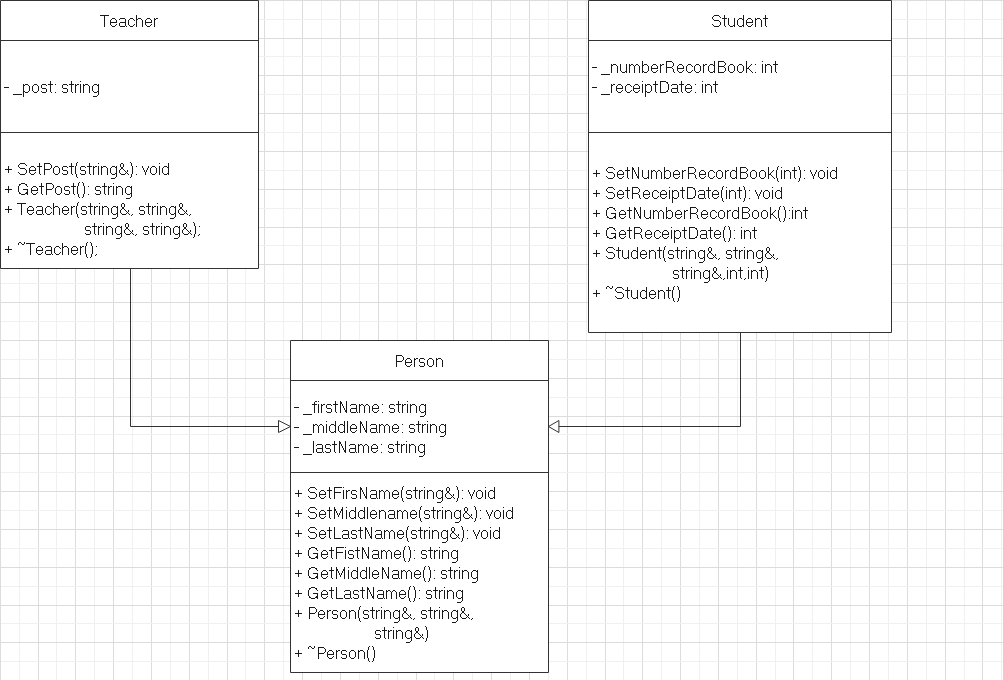
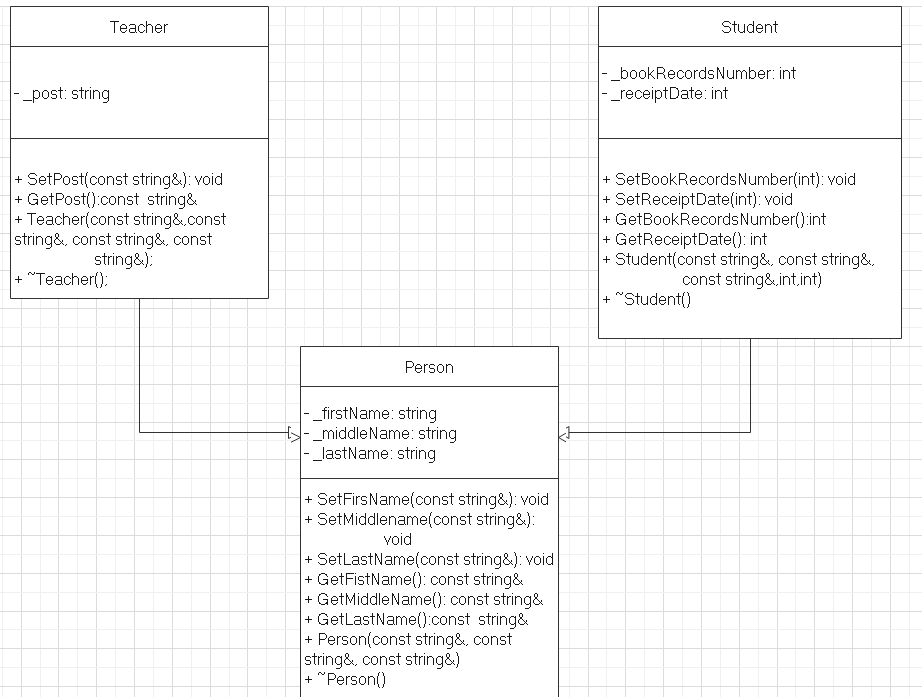
fix(Lab5): исправления TODO

diff --git a/Labs/Lab5/Lab5.cpp b/Labs/Lab5/Lab5.cpp
@@ -20,12 +20,12 @@ using namespace std;
 int main()
 {
 	//5.1
-	/*string personFirstName = "Vasily";
+	string personFirstName = "Vasily";
 	string personMiddleName = "Viktorovich";
 	string personLastName = "Chekhov";
 	Person* person = new Person(personFirstName, personMiddleName,
 		personLastName);
-	ShowName(person);
+	ShowName(*person);
 
 	string studentFirstName = "Innocent";
 	string studentMiddleName = "Andreevich";
@@ -35,7 +35,7 @@ int main()
 	Student* student = new Student(studentFirstName, 
 		studentMiddleName, studentLastName, numberRecordBook,
 		receiptDate);
-	ShowName(student);
+	ShowName(*student);
 
 	string teacherFirstName = "Dmitry";
 	string teacherMiddleName = "Alexeyevich";
@@ -43,11 +43,11 @@ int main()
 	string post = "GPO teacher";
 	Teacher* teacher = new Teacher(studentFirstName,
 		studentMiddleName, studentLastName, post);
-	ShowName(teacher);
+	ShowName(*teacher);
 
 	delete person;
 	delete student;
-	delete teacher;*/
+	delete teacher;
 
 	//5.2
 	User** users = new User*[4] 
@@ -89,7 +89,7 @@ int main()
 	delete[] paidUsers;
 
 	//5.3
-	/*const int arrayCount = 4;
+	const int arrayCount = 4;
 	string names[arrayCount]
 	{
 		"LED DEXP H24E7000M", 
@@ -117,5 +117,5 @@ int main()
 	{
 		delete products[i];
 	}
-	delete[] products;*/
+	delete[] products;
 }

diff --git a/Labs/Lab5/Person.cpp b/Labs/Lab5/Person.cpp
@@ -1,7 +1,7 @@
 #include "Person.h"
 
-Person::Person(std::string& firstName, std::string& middleName,
-	std::string& lastName)
+Person::Person(const std::string& firstName, const std::string& middleName,
+	const std::string& lastName)
 {
 	this->SetFirsName(firstName);
 	this->SetMiddlename(middleName);
@@ -13,32 +13,32 @@ Person::~Person()
 
 }
 
-void Person::SetFirsName(std::string& firstName)
+void Person::SetFirsName(const std::string& firstName)
 {
 	this->_firstName = firstName;
 }
 
-void Person::SetMiddlename(std::string& middleName)
+void Person::SetMiddlename(const std::string& middleName)
 {
 	this->_middleName = middleName;
 }
 
-void Person::SetLastName(std::string& lastName)
+void Person::SetLastName(const std::string& lastName)
 {
 	this->_lastName = lastName;
 }
 
-std::string Person::GetFistName()
+const std::string& Person::GetFistName()
 {
 	return  this->_firstName;
 }
 
-std::string Person::GetMiddleName()
+const std::string& Person::GetMiddleName()
 {
 	return  this->_middleName;
 }
 
-std::string Person::GetLastName()
+const std::string& Person::GetLastName()
 {
 	return  this->_lastName;
 }

diff --git a/Labs/Lab5/5.2/User.cpp b/Labs/Lab5/5.2/User.cpp
@@ -6,7 +6,7 @@ void User::SetId(int id)
 	this->_id = id;
 } 
 
-void User::SetLogin(std::string login) 
+void User::SetLogin(const std::string& login)
 {
 	const int countChar = 11;
 	char trashSymbols[countChar]{ '{', '}', '<', '>', '@', '#',
@@ -24,7 +24,7 @@ void User::SetLogin(std::string login)
 	this->_login = login;
 } 
 
-void User::SetPassword(std::string password) 
+void User::SetPassword(const std::string& password)
 {
 	this->_password = password;
 }
@@ -34,24 +34,24 @@ int User::GetId()
 	return this->_id; 
 } 
 
-std::string User::GetLogin() 
+const std::string& User::GetLogin()
 { 
 	return this->_login;
 }
 
-std::string User::GetPassword() 
+const std::string& User::GetPassword()
 { 
 	return this->_password;
 }
 
-User::User(int id, std::string login, std::string password)
+User::User(int id, const std::string& login, const std::string& password)
 {
 	this->SetId(id); 
 	this->SetLogin(login);
 	this->SetPassword(password);
 } 
 
-bool User::IsCorrectPassword(std::string password) 
+bool User::IsCorrectPassword(const std::string& password)
 { 
 	return (password == this->_password);
 }

diff --git a/Labs/Lab5/Student.cpp b/Labs/Lab5/Student.cpp
@@ -1,10 +1,10 @@
 #include "Student.h"
 
-Student::Student(std::string& firstName, std::string& middleName,
-	std::string& lastName, int numberRecordBookint,
+Student::Student(const std::string& firstName, const std::string& middleName,
+	const std::string& lastName, int bookRecordsNumber,
 	int receiptDate) : Person(firstName, middleName, lastName)
 {
-	this->SetNumberRecordBook(numberRecordBookint);
+	this->SetBookRecordsNumber(bookRecordsNumber);
 	this->SetReceiptDate(receiptDate);
 }
 
@@ -13,9 +13,9 @@ Student::~Student()
 
 }
 
-void Student::SetNumberRecordBook(int numberRecordBookint)
+void Student::SetBookRecordsNumber(int bookRecordsNumber)
 {
-	this->_numberRecordBook = numberRecordBookint;
+	this->_bookRecordsNumber = bookRecordsNumber;
 }
 
 void Student::SetReceiptDate(int receiptDate)
@@ -23,9 +23,9 @@ void Student::SetReceiptDate(int receiptDate)
 	this->_receiptDate = receiptDate;
 }
 
-int Student::GetNumberRecordBook()
+int Student::GetBookRecordsNumber()
 {
-	return this->_numberRecordBook;
+	return this->_bookRecordsNumber;
 }
 
 int Student::GetReceiptDate()

diff --git a/Labs/Lab5/CertificateDiscount.cpp b/Labs/Lab5/CertificateDiscount.cpp
@@ -26,18 +26,18 @@ double CertificateDiscount::GetAmount()
 	return this->_amount;
 }
 
-double CertificateDiscount::Calculate(Product* product)
+double CertificateDiscount::Calculate(Product& product)
 {
-	if (product->GetCategory() != this->GetCategory())
+	if (product.GetCategory() != this->GetCategory())
 	{
-		return product->GetCost();
+		return product.GetCost();
 	}
-	if (product->GetCost() - this->GetAmount() <= 0)
+	if (product.GetCost() - this->GetAmount() <= 0)
 	{
-		this->SetAmount(this->GetAmount() - product->GetCost());
+		this->SetAmount(this->GetAmount() - product.GetCost());
 		return 0;
 	}
-	double newCost = product->GetCost() - this->GetAmount();
+	double newCost = product.GetCost() - this->GetAmount();
 	this->SetAmount(0);
 	return newCost;
 }

diff --git a/Labs/Lab5/Teacher.cpp b/Labs/Lab5/Teacher.cpp
@@ -1,7 +1,7 @@
 #include "Teacher.h"
 
-Teacher::Teacher(std::string& firstName, std::string& middleName,
-	std::string& lastName, std::string& post) : 
+Teacher::Teacher(const std::string& firstName, const std::string& middleName,
+	const std::string& lastName, std::string& post) :
 	Person(firstName, middleName, lastName)
 {
 	this->SetPost(post);
@@ -12,12 +12,12 @@ Teacher::~Teacher()
 
 }
 
-void Teacher::SetPost(std::string& post)
+void Teacher::SetPost(const std::string& post)
 {
 	this->_post = post;
 }
 
-std::string Teacher::GetPost()
+const std::string& Teacher::GetPost()
 {
 	return this->_post;
 }
